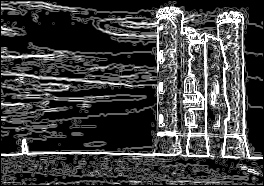
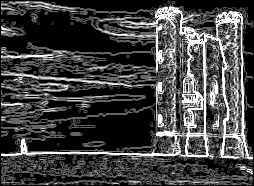
add basic gui

diff --git a/src/main.rs b/src/main.rs
@@ -1,10 +1,67 @@
+#![windows_subsystem = "windows"] // removes console window while running the exe file
 extern crate image;
-
 mod image_data;
 
 use image::*;
+use fltk::*; 
+use fltk::{app, frame::Frame, image::SharedImage, prelude::*, window::Window,  dialog::*};
+use std::path::Path;
+use std::error::Error;
 
-fn main() {
-    let mut img = image_data::ImageData::new(String::from("data/sample2.png")).unwrap();
-    img.seam_carving(10);
+fn main() -> Result<(), Box<dyn Error>> {
+
+    let app = app::App::default().with_scheme(app::Scheme::Gleam);
+    let mut win = Window::default().with_size(800, 600);
+    let mut originalFrame = Frame::default().size_of(&win).with_pos(-200, 0);
+    let mut resultFrame = Frame::default().size_of(&win).with_pos(200, 0);
+    let mut but = button::Button::new(350,100, 100, 40, "Click");
+    let input = input::Input::new(350, 50, 100, 40, "Pixels ot reduce:");
+
+    let mut image = SharedImage::load(Path::new("D:\\Documents\\University\\3rd_course\\Rust\\fltk\\workspace\\data\\sample2.png"))?;
+    image.scale(320, 240, true, true);
+
+    originalFrame.set_image(Some(image.clone()));
+    resultFrame.set_image(Some(image));
+
+    win.make_resizable(true);
+    win.end();
+    win.show();
+
+    let (s, r) = app::channel::<bool>();
+    but.emit(s, true);
+
+    let mut resultImage: SharedImage;
+
+    while app.wait().unwrap() {
+        let seamsNumber = input.value();
+        match r.recv() {
+            Some(msg) => {
+                if msg {
+                    let mut img = image_data::ImageData::new(String::from("data/sample2.png")).unwrap();
+                    resultFrame.set_image(None::<SharedImage>);
+                    win.set_label("Processing!");
+                    match img.seam_carving(seamsNumber.parse::<u32>().unwrap()) {
+                        Ok(true) => {
+                            resultFrame.set_image(None::<SharedImage>);
+                            resultFrame.hide();
+                            resultImage = SharedImage::load(Path::new("D:\\Documents\\University\\3rd_course\\Rust\\seam_carving\\data\\seam_carving.png"))?;
+                            resultImage.scale((320 - seamsNumber.parse::<i32>().unwrap()), 240, true, true); 
+                            // resultImage.scale(320, 240, true, true); 
+                            resultFrame.set_image(Some(resultImage));
+                            resultFrame.show();
+                            win.set_label("Ready!");
+                        },
+                        Ok(false) => (),
+                        Err(E) => win.set_label("Error!"),
+                    }
+                } else {
+                }
+            }
+            None => (),
+        }
+        std::thread::sleep(std::time::Duration::from_millis(16));
+    }
+
+    app.run()?;
+    Ok(())
 }

diff --git a/src/image_data.rs b/src/image_data.rs
@@ -4,10 +4,11 @@ extern crate rand;
 pub mod utils; 
 
 use image::*;
+use std::io::{Error, ErrorKind};
 
 pub struct ImageData {
     pub path: String,
-    rgb_image: image::DynamicImage,
+    pub rgb_image: image::DynamicImage,
     f32_image: Vec<Vec<f32>>,
     rgb_edge_detect: image::DynamicImage,
     f32_edge_detect: Vec<Vec<f32>>,
@@ -106,11 +107,15 @@ impl ImageData {
         self.update_data(DynamicImage::ImageRgba8(new_img));
     }
     
-    pub fn seam_carving(&mut self, val: u32) { // VALIDATE INPUT
+    pub fn seam_carving(&mut self, val: u32) -> Result<bool, ErrorKind> { // VALIDATE INPUT
+        if (val < 1) || (val > self.rgb_image.width()) {
+            return Err(ErrorKind::InvalidInput);
+        }
         for _i in 0..val {
             self.remove_seam();
         }
         self.save_energy_image();
         self.save_color_image();
+        Ok(true)
     }
 }
